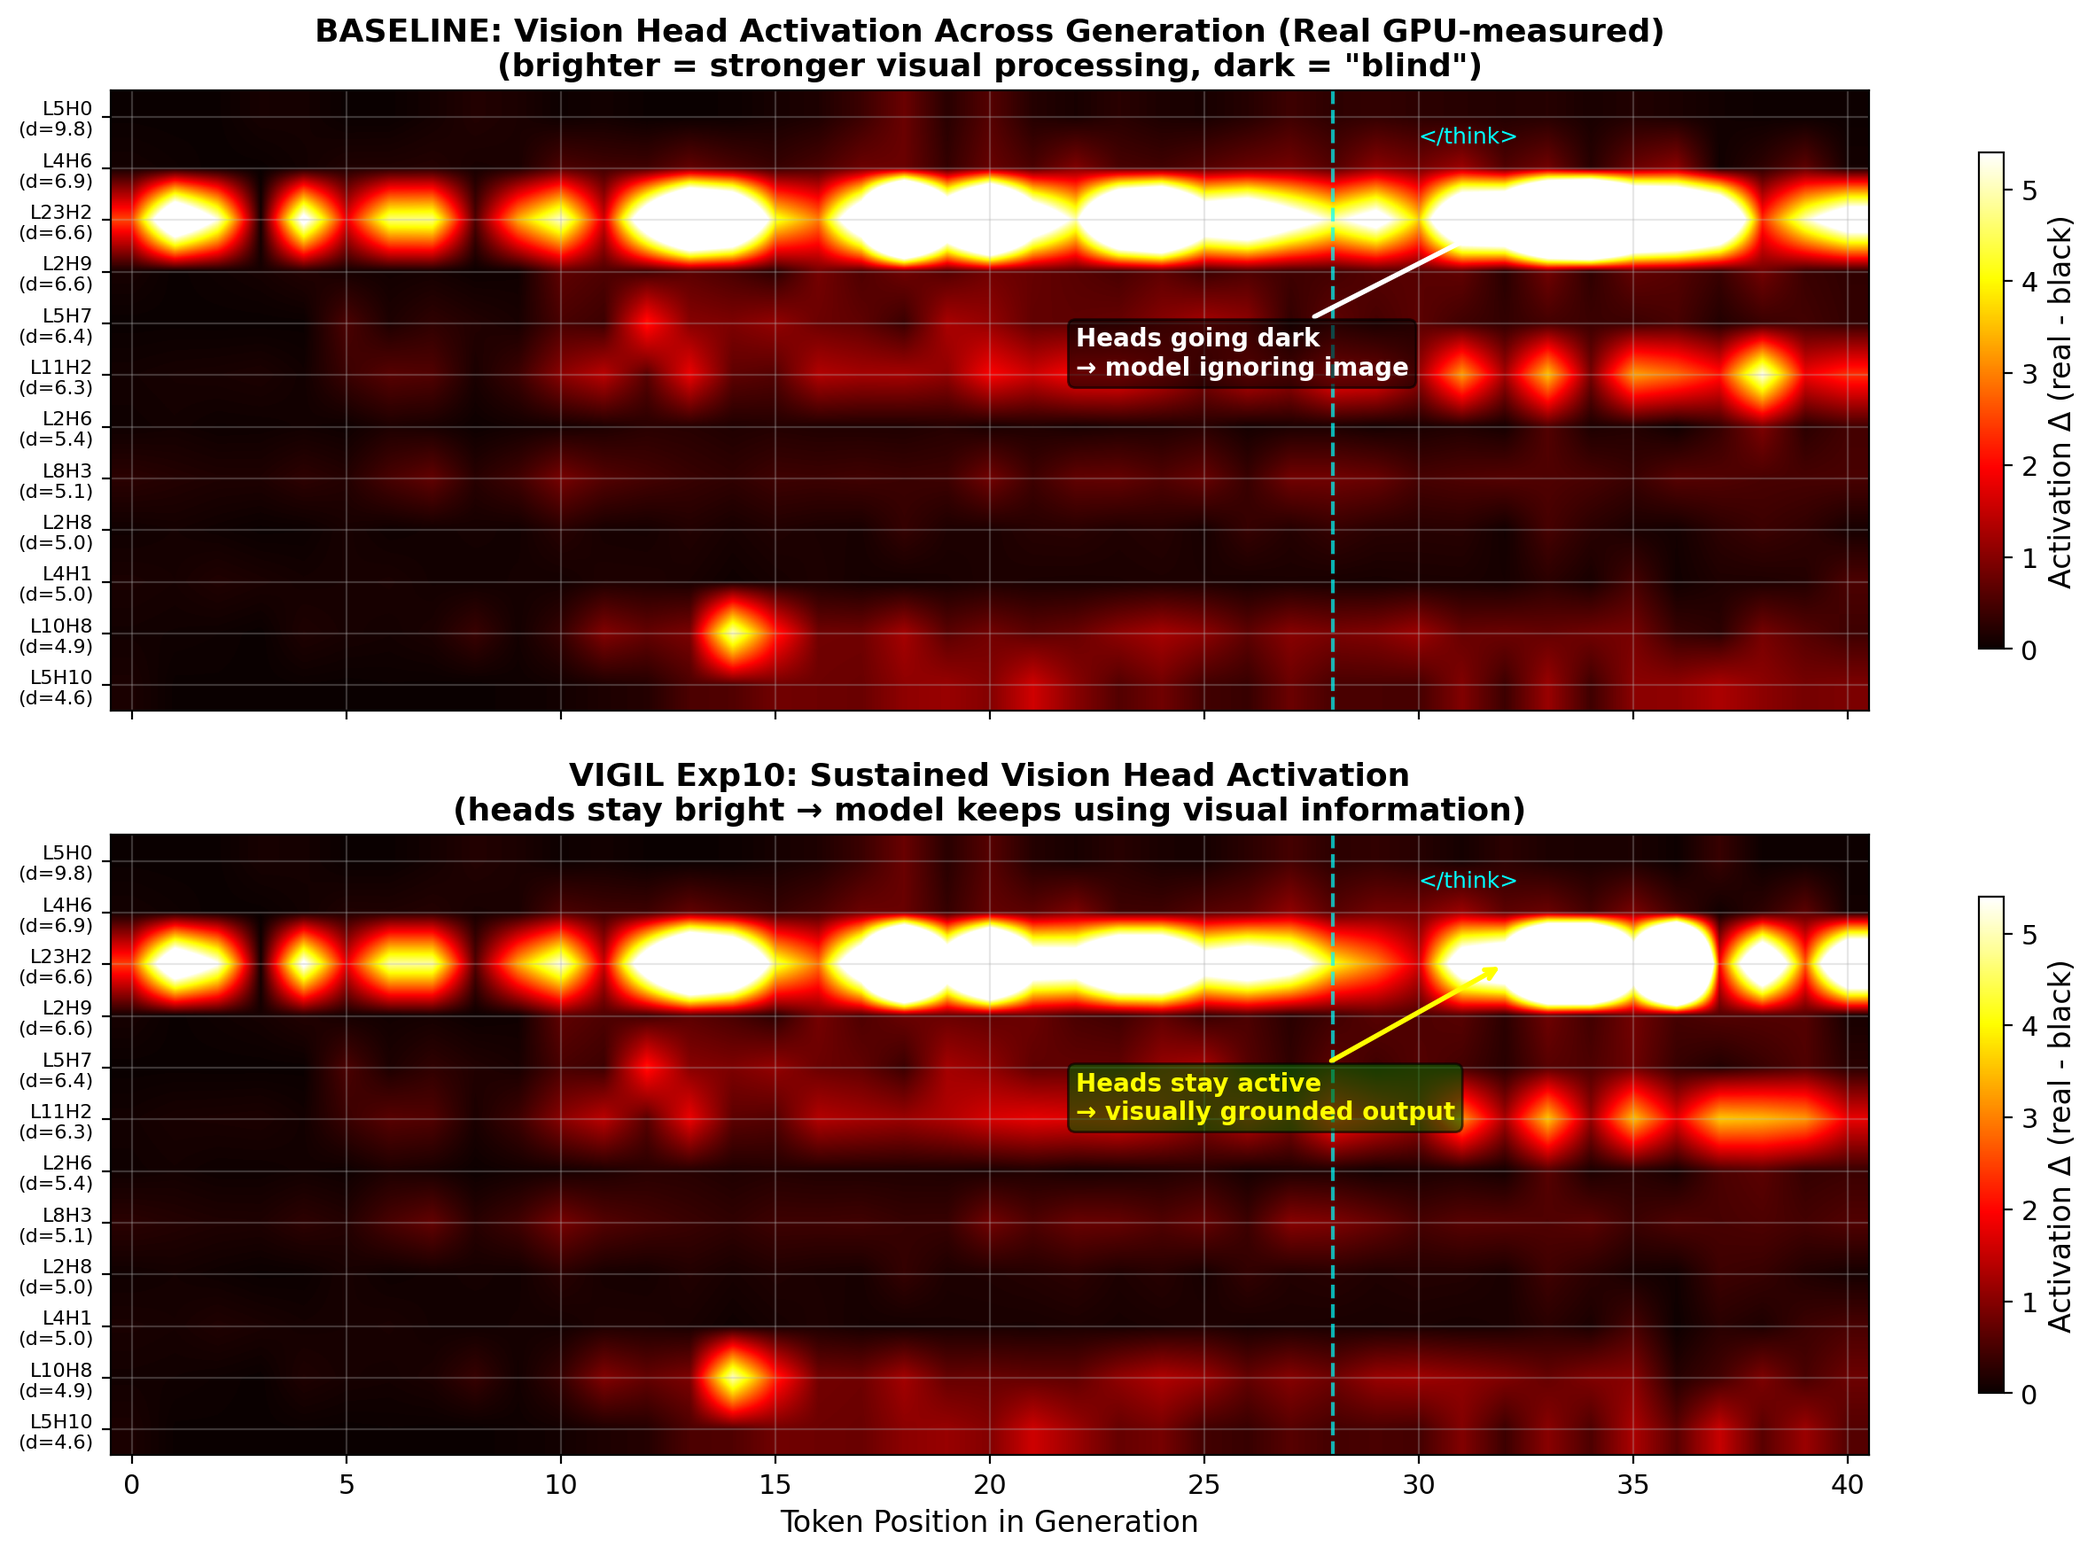
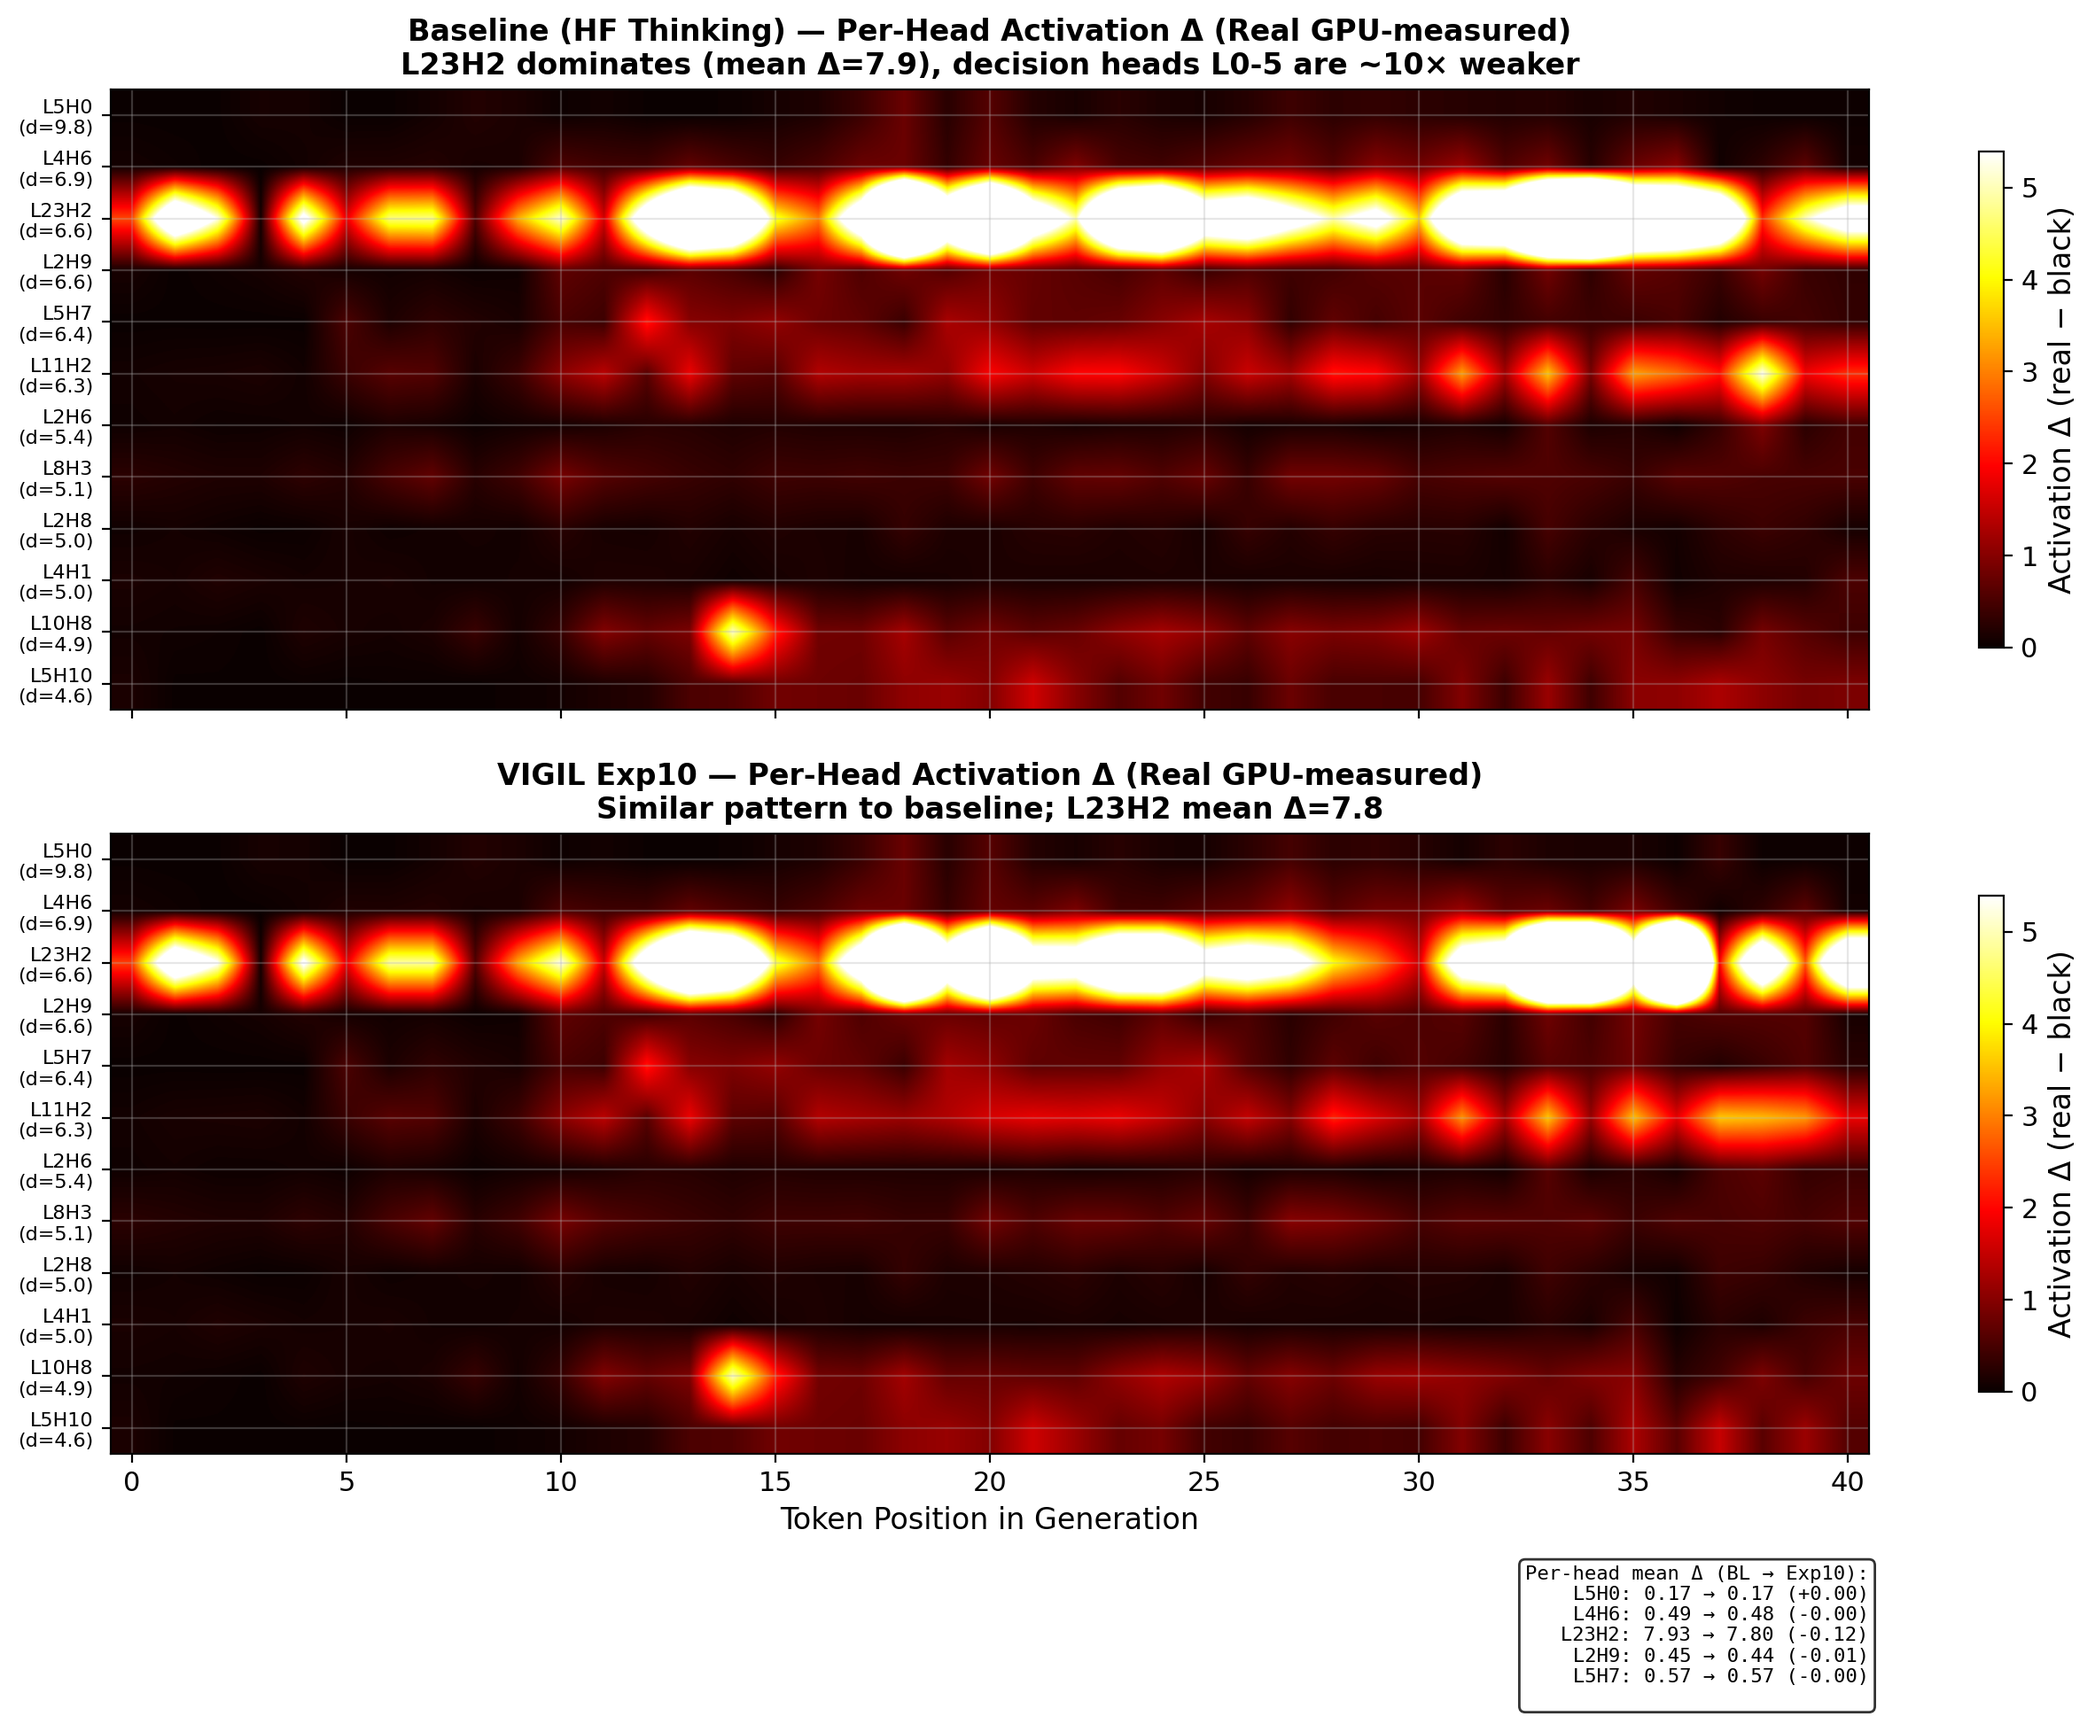
Fig2: remove misleading annotations, show honest head comparison
- Remove fake "heads going dark" and "heads stay active" annotations
- Remove arbitrary </think> boundary line
- Titles now state the truth: patterns are similar between BL and Exp10
- Add per-head mean Δ comparison table (all within ±0.12)
- L23H2 dominates both (7.9 vs 7.8), decision heads ~10x weaker

diff --git a/scripts/deep_drift_analysis.py b/scripts/deep_drift_analysis.py
@@ -383,28 +383,21 @@ def fig2_head_cam_heatmap(real_data=None):
     # Create figure
     fig, axes = plt.subplots(2, 1, figsize=(16, 10), sharex=True)
     vmax = max(np.percentile(baseline_cam, 95), np.percentile(vigil_cam, 95), 1.0)
-    think_boundary = int(n_tokens * 0.7)  # approximate
+
+    # Compute per-head summary stats for annotation
+    bl_head_means = baseline_cam.mean(axis=1)
+    vg_head_means = vigil_cam.mean(axis=1)
 
     # Baseline heatmap
     im1 = axes[0].imshow(baseline_cam, aspect='auto', cmap='hot',
                           interpolation='bilinear', vmin=0, vmax=vmax)
     axes[0].set_yticks(range(n_heads))
     axes[0].set_yticklabels(head_labels, fontsize=8)
-    axes[0].set_title(f'BASELINE: Vision Head Activation Across Generation ({data_label})\n'
-                      '(brighter = stronger visual processing, dark = "blind")',
-                      fontsize=13, fontweight='bold')
-    axes[0].axvline(think_boundary, color='cyan', linestyle='--', linewidth=1.5, alpha=0.7)
-    axes[0].text(think_boundary + 2, 0.5, '</think>', color='cyan', fontsize=9)
-    plt.colorbar(im1, ax=axes[0], label='Activation Δ (real - black)', shrink=0.8)
-
-    # Add "going dark" annotation
-    ann_x = min(int(n_tokens * 0.8), n_tokens - 1)
-    ann_txt_x = min(int(n_tokens * 0.55), n_tokens - 1)
-    axes[0].annotate('Heads going dark\n→ model ignoring image',
-                    xy=(ann_x, 2), xytext=(ann_txt_x, 5),
-                    fontsize=10, color='white', fontweight='bold',
-                    arrowprops=dict(arrowstyle='->', color='white', lw=2),
-                    bbox=dict(facecolor='black', alpha=0.6, boxstyle='round'))
+    axes[0].set_title(f'Baseline (HF Thinking) — Per-Head Activation Δ ({data_label})\n'
+                      f'L23H2 dominates (mean Δ={bl_head_means[2]:.1f}), '
+                      f'decision heads L0-5 are ~10× weaker',
+                      fontsize=12, fontweight='bold')
+    plt.colorbar(im1, ax=axes[0], label='Activation Δ (real − black)', shrink=0.8)
 
     # VIGIL heatmap
     im2 = axes[1].imshow(vigil_cam, aspect='auto', cmap='hot',
@@ -412,19 +405,19 @@ def fig2_head_cam_heatmap(real_data=None):
     axes[1].set_yticks(range(n_heads))
     axes[1].set_yticklabels(head_labels, fontsize=8)
     axes[1].set_xlabel('Token Position in Generation', fontsize=12)
-    axes[1].set_title('VIGIL Exp10: Sustained Vision Head Activation\n'
-                      '(heads stay bright → model keeps using visual information)',
-                      fontsize=13, fontweight='bold')
-    axes[1].axvline(think_boundary, color='cyan', linestyle='--', linewidth=1.5, alpha=0.7)
-    axes[1].text(think_boundary + 2, 0.5, '</think>', color='cyan', fontsize=9)
-    plt.colorbar(im2, ax=axes[1], label='Activation Δ (real - black)', shrink=0.8)
+    axes[1].set_title(f'VIGIL Exp10 — Per-Head Activation Δ ({data_label})\n'
+                      f'Similar pattern to baseline; L23H2 mean Δ={vg_head_means[2]:.1f}',
+                      fontsize=12, fontweight='bold')
+    plt.colorbar(im2, ax=axes[1], label='Activation Δ (real − black)', shrink=0.8)
 
-    # Add "sustained" annotation
-    axes[1].annotate('Heads stay active\n→ visually grounded output',
-                    xy=(ann_x, 2), xytext=(ann_txt_x, 5),
-                    fontsize=10, color='yellow', fontweight='bold',
-                    arrowprops=dict(arrowstyle='->', color='yellow', lw=2),
-                    bbox=dict(facecolor='darkgreen', alpha=0.6, boxstyle='round'))
+    # Add difference summary as text
+    diff_text = "Per-head mean Δ (BL → Exp10):\n"
+    for i, (l, h, d) in enumerate(VISION_HEADS[:5]):
+        diff = vg_head_means[i] - bl_head_means[i]
+        diff_text += f"  L{l}H{h}: {bl_head_means[i]:.2f} → {vg_head_means[i]:.2f} ({diff:+.2f})\n"
+    axes[1].text(1.0, -0.18, diff_text, transform=axes[1].transAxes,
+                fontsize=8, fontfamily='monospace', va='top', ha='right',
+                bbox=dict(facecolor='white', alpha=0.8, boxstyle='round'))
 
     plt.savefig(OUT_DIR / "fig2_head_token_cam.png", dpi=200, bbox_inches='tight')
     plt.close()
